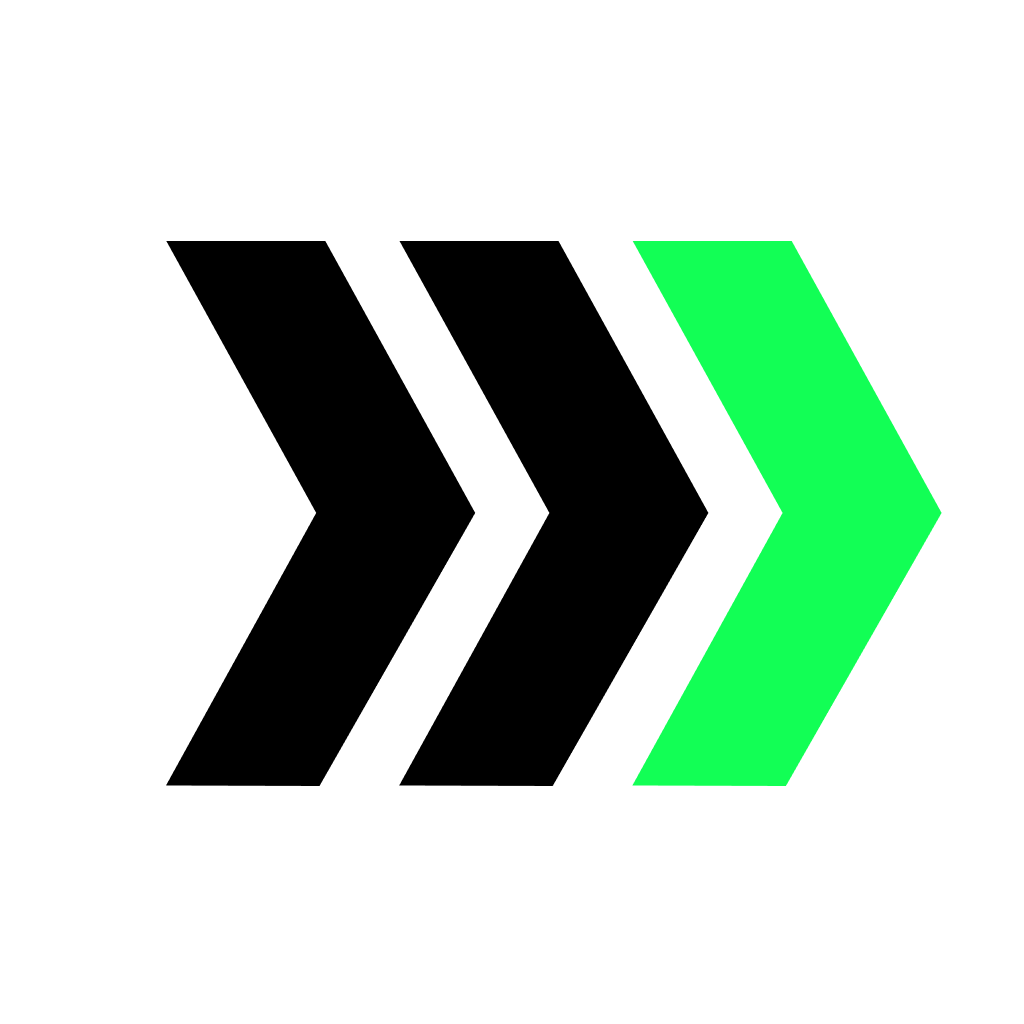
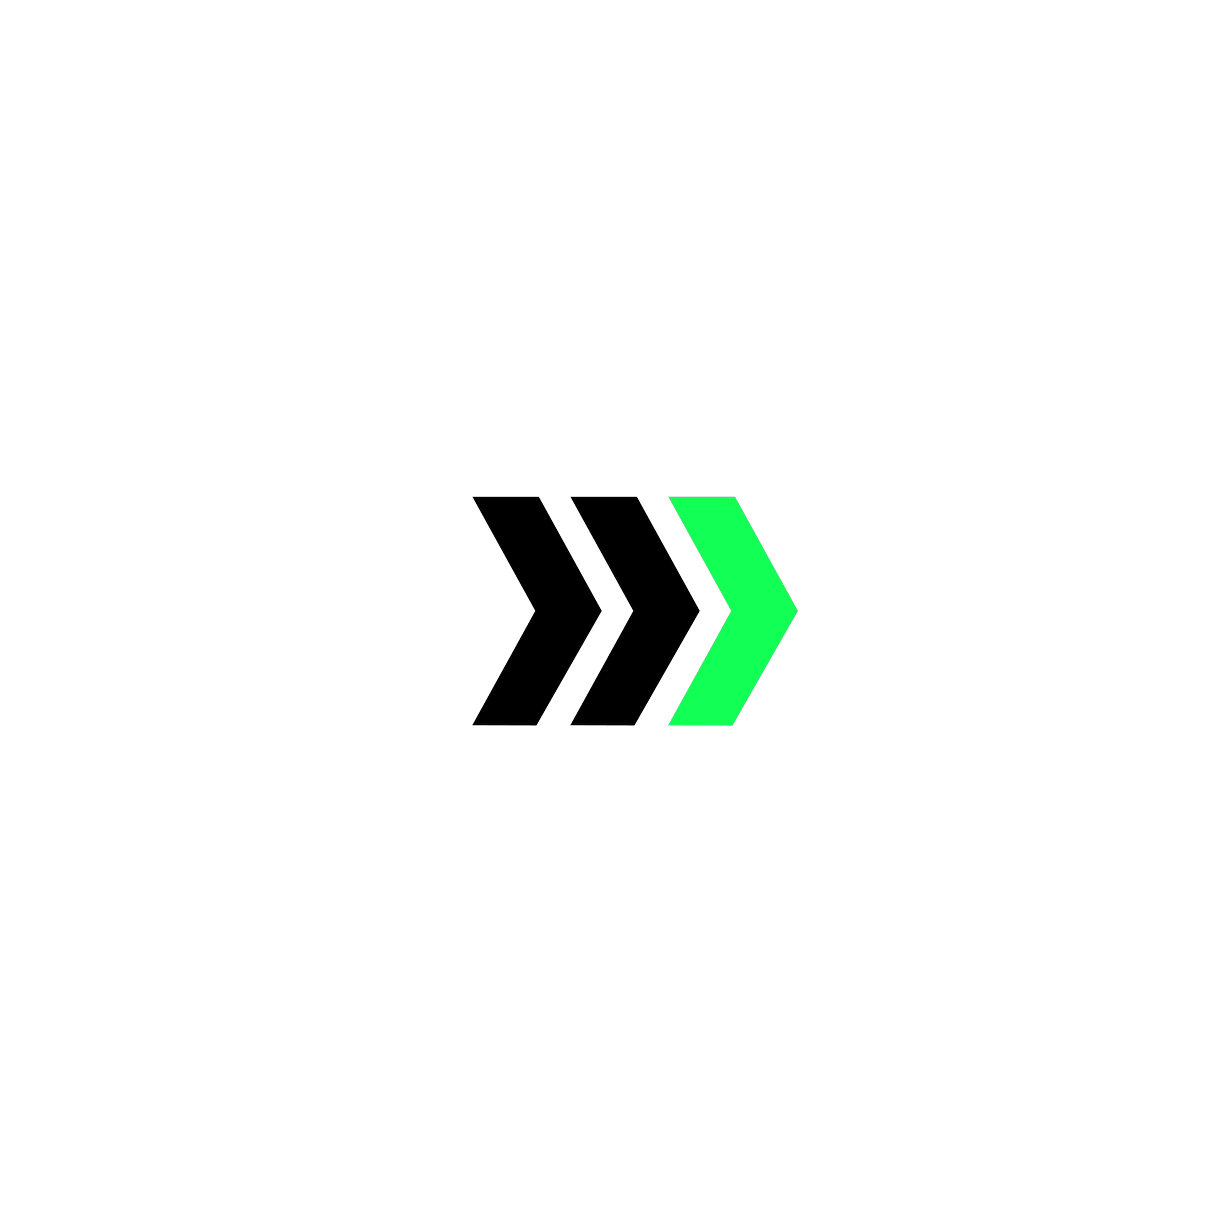
ajustes na splashscreen

Changed region(s): [[0.1562, 0.2188, 0.6875, 0.7812], [0.625, 0.2188, 0.9375, 0.7812]]

diff --git a/app.config.js b/app.config.js
@@ -5,10 +5,10 @@ export default {
     name: "meu-desafio-2",
     version: "1.0.0",
     orientation: "portrait",
-    icon: "./assets/icon.png",
+    icon: "./assets/icon2.png",
     userInterfaceStyle: "light",
     splash: {
-      image: "./assets/splash-black.png",
+      image: "./assets/gpt.png",
       resizeMode: "cover",
       backgroundColor: "#ffffff"
     },